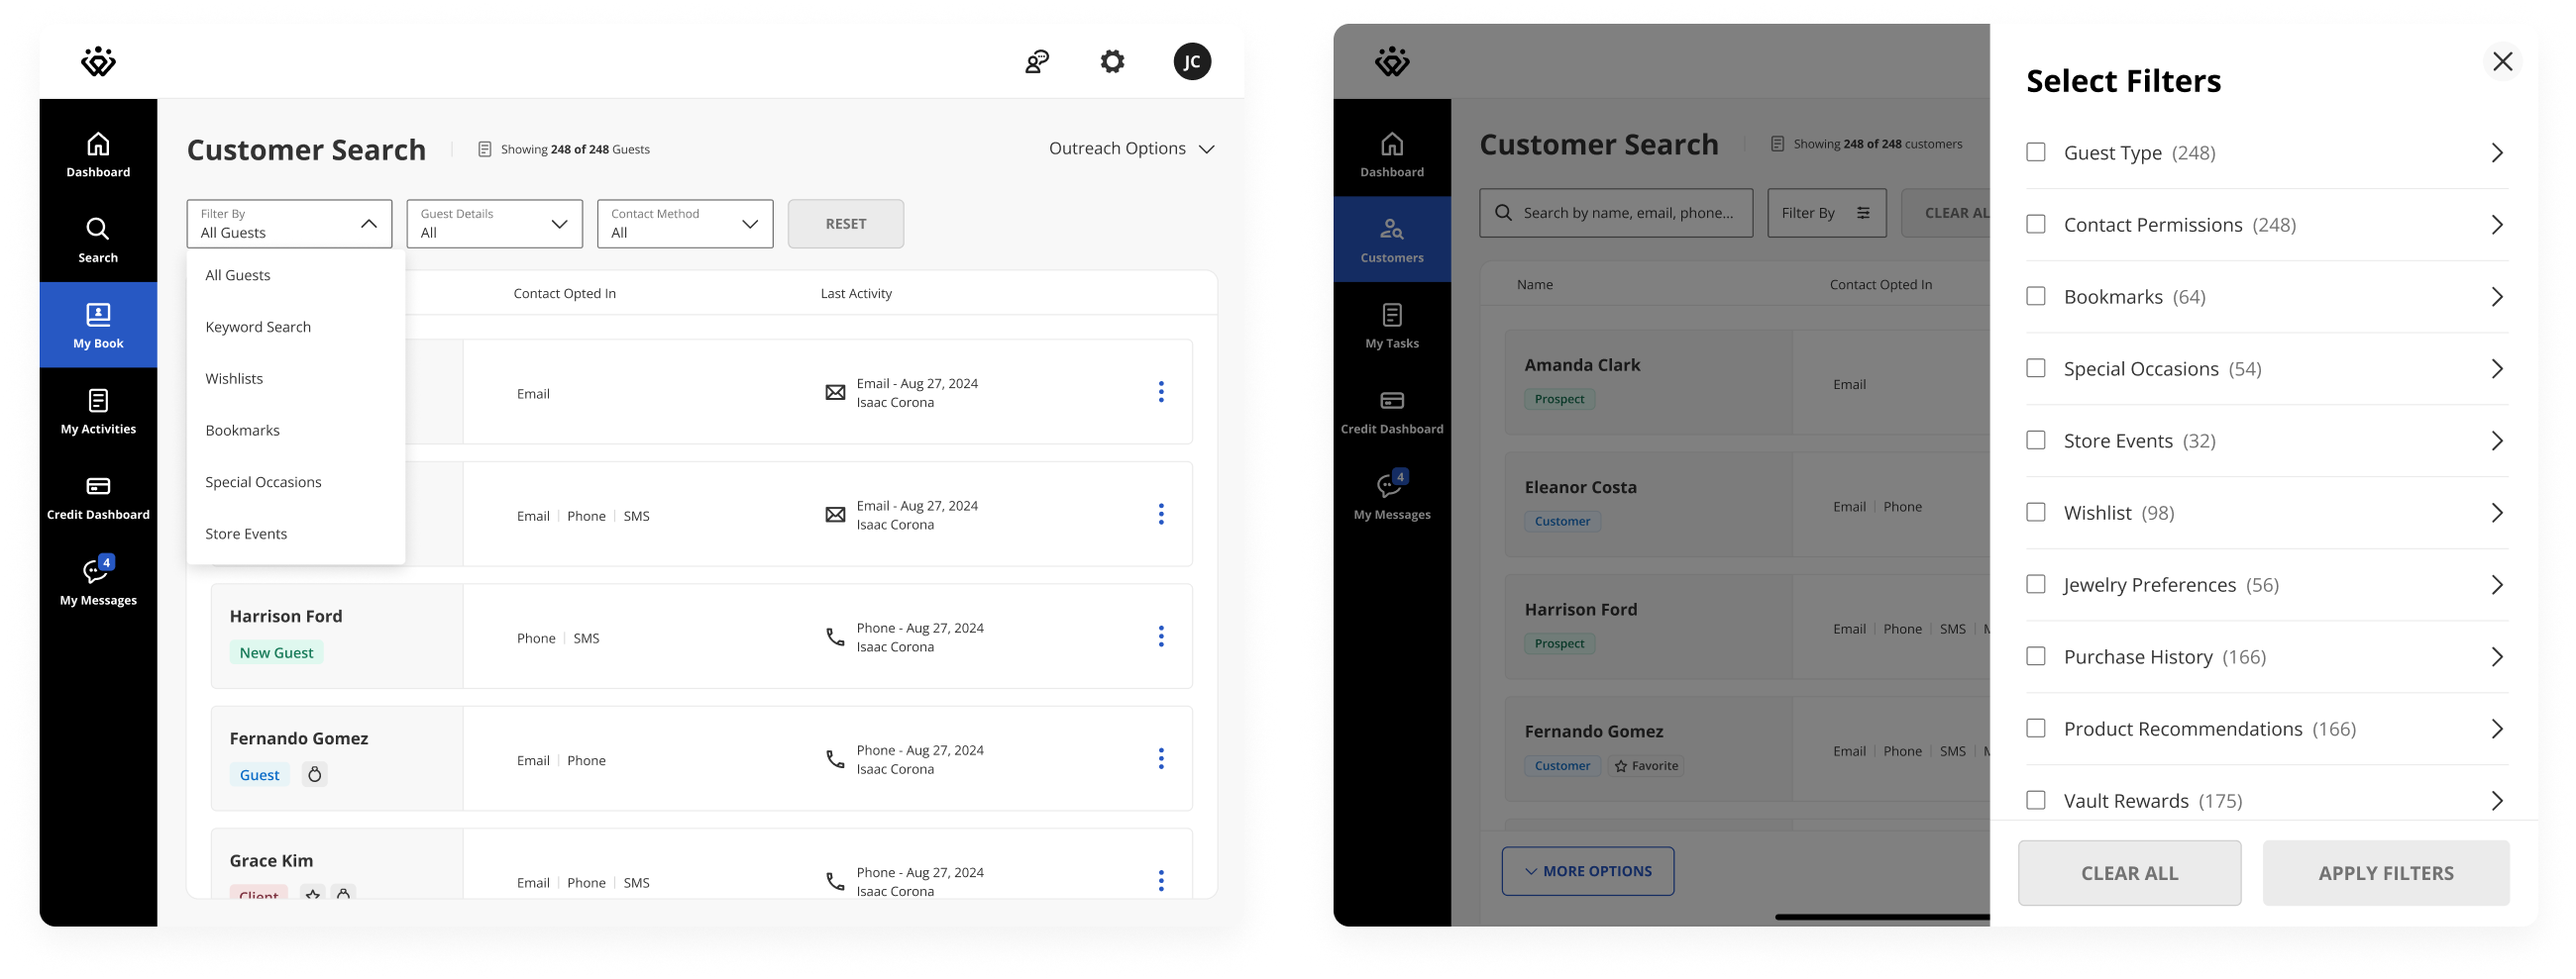
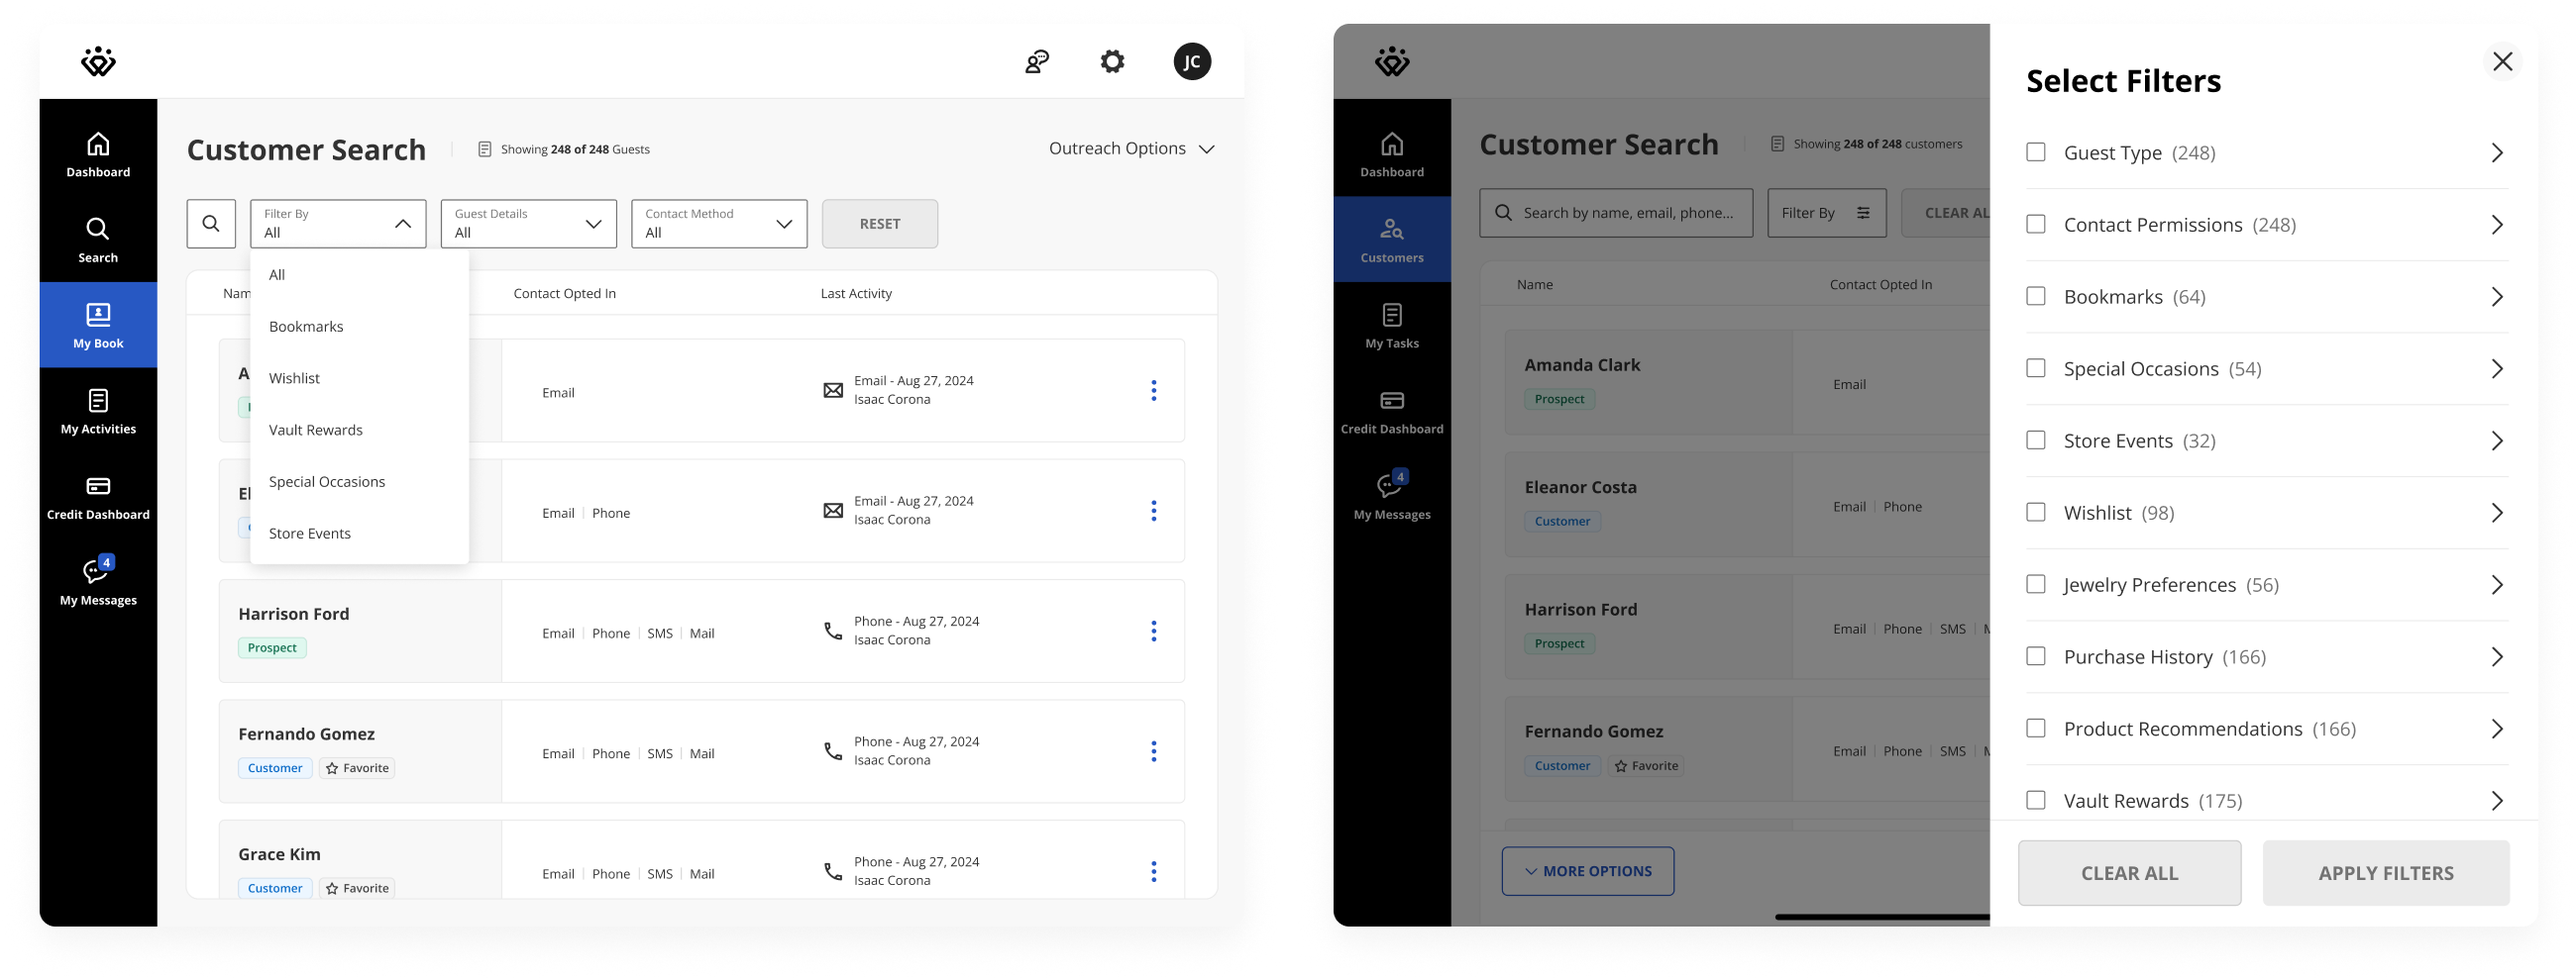
copy tweaks

diff --git a/pages/projects/clienteling-filters.js b/pages/projects/clienteling-filters.js
@@ -50,7 +50,7 @@ function ClientelingFilters() {
       </p>
 
       <p className='mb-12 lg:w-3/5 fade-in delay-4'>
-        Through customer search, associates can find the right customers visiting stores or for outreach initiatives - for example to promote a new line of engagement rings to those who would be interested.
+        Through Clienteling search, associates can find the right customers visiting stores or target them for outreach initiatives - for example to promote a new line of engagement rings to those who would be interested.
       </p>
 
       <div className='mb-12 px-12 py-6 lg:px-24 lg:py-16 bg-[#F2F2F4] rounded-lg'>
@@ -64,13 +64,13 @@ function ClientelingFilters() {
       {/* Problem */}
 
       <b className='mb-4 block'>Problem</b>
-      <p className='mb-12 lg:w-3/5'>
-        As the search capabilities kept evolving and new filters were added, their organization started to become unintuitive. New store associates faced a steep learning curve, while experienced store associates asked for more filtering options. Many of the frequently used filters were hidden under the second navigation level, which led to poor discoverability.
+      <p className='mb-4 lg:w-3/5'>
+        As the search capabilities kept evolving and new filters were added, the search experience became increasingly cluttered and harder to navigate. Many of the frequently used filters were hidden under the second navigation level, which led to poor discoverability.
       </p>
 
-      {/* <p className='mb-12 lg:w-3/5'> 
-        Once the filters for a specific customer segment were applied, there was no visibility to the contact method each customer was opted into, meaning the JCs would often find out that some of the selected customers don&apos;t have an email address in their records.
-      </p> */}
+      <p className='mb-12 lg:w-3/5'> 
+         New store associates struggled to find the right customers quickly, while experienced associates grew frustrated by the lack of easy access to key filters, slowing down outreach efforts and missing sales opportunities.
+      </p> 
 
       <div className='mb-12 px-6 py-6 lg:px-44 lg:py-16 bg-[#F2F2F4] rounded-lg'>
         <img className='w-full h-auto object-contain rounded-lg' src="https://firebasestorage.googleapis.com/v0/b/portfolio-d1c10.appspot.com/o/projects%2FClienteling%20-%20Current%20Filters.png?alt=media&token=90228814-411d-4477-8d71-eff32cc3a03e" alt="Digital Store System" />
@@ -79,19 +79,18 @@ function ClientelingFilters() {
       {/* Solution */}
 
       <b className='mb-4 block'>Solution</b>
-      <p className='mb-6 lg:w-3/5'>
-        In collaboration with product managers, researchers, and engineers, I led the design for the new customer filters for store associates from discovery to implementation.
-      </p>
-
-      <p className='mb-6 lg:w-3/5'>
-        The new design offered a simple and approachable filtering experience for new employees, while maintaining the functionality and flexibility appreciated by tenured store associates.
+      <p className='mb-4 lg:w-3/5'>
+        Our goal was to reduce friction and help store associates quickly find and act on the right customer profiles, making personalized outreach faster, easier, and more effective.
       </p>
 
       <p className='mb-12 lg:w-3/5'>
-        I also streamlined outreach and creating outreach reminders by bringing visibility to available contact methods to inform decision-making and remove unnecessary steps.
+        I led the end-to-end redesign of the customer filtering experience in collaboration with product managers, researchers, and engineers to simplify the search experience, improve filter accessibility, and drive better outreach outcomes.
       </p>
 
-      
+      {/* <p className='mb-12 lg:w-3/5'>
+        I also streamlined outreach and creating outreach tasks by bringing visibility to available contact methods to inform decision-making and remove unnecessary steps.
+      </p> */}
+
       <div className='mb-4 px-6 py-6 lg:px-8 lg:py-24 bg-[#F2F2F4] rounded-lg'>
         <img className='w-full h-auto object-contain rounded-lg' src="/images/clienteling/clienteling-variants.png" alt="Clienteling Variants"/>
       </div>
@@ -100,15 +99,11 @@ function ClientelingFilters() {
       <b className='mb-4 block'>Design Direction</b>
 
       <p className='mb-6 lg:w-3/5'>
-        We started thinking on how might we make it easier and quicker for store associates to find and act on the right customer profiles.
-      </p>
-
-      <p className='mb-6 lg:w-3/5'>
-        Because how differently filters are used by new and experienced associates, my thought process was to design for progressive disclosure to balance simplicity and flexibility, reorganizing the filter architecture.
+        Because how differently filters are used by new and experienced associates, my thought process was to design to balance simplicity and flexibility, reorganizing the filter architecture and applying progressive disclosure. 
       </p>
 
       <p className='mb-12 lg:w-3/5'>
-        We explored two directions - a more familiar approach with categorized dropdowns and a more progressive approach with a drawer. After testing them with store associates in-store, we&apos;ve found that the drawer variant was significantly easier to use for both new and tenured associates.
+        I explored two directions - a more familiar approach with categorized dropdowns and a progressive approach with a drawer. After testing them with store associates in-store, we&apos;ve found that the drawer variant was significantly easier to use for both new and tenured associates. 
       </p>
 
       <div className='mb-12 py-4 px-6 lg:px-44 lg:py-16 bg-[#F2F2F4] rounded-lg'>
@@ -219,8 +214,13 @@ function ClientelingFilters() {
         <img className='w-full h-auto object-contain rounded-lg' src="https://firebasestorage.googleapis.com/v0/b/portfolio-d1c10.appspot.com/o/projects%2FCL%20Icon.png?alt=media&token=9ed1018c-8bce-4c66-92ae-de4f47c60592" alt="Digital Store System" />
       </div>
       <b className='mb-4 block'>Results</b>
+
+      <p className='mb-6 lg:w-3/5'>
+        The new design offered a simple and approachable filtering experience for new employees, while maintaining the functionality and flexibility appreciated by tenured store associates.
+      </p>
+
       <p className='mb-12 lg:w-3/5'>
-        Six months after launch, we saw a 750% increase in email engagement, 50% increase in outreach tasks engagement and received positive feedback from associates that new filters felt faster to use and more intuitive.
+        Through the combination of the changes, six months after launch, we saw a 750% increase in email engagement, 50% increase in outreach tasks engagement and received positive feedback from associates that new filters felt faster to use and more intuitive.
       </p>
       
       <b className='mb-4 block'>Takeaways</b>
